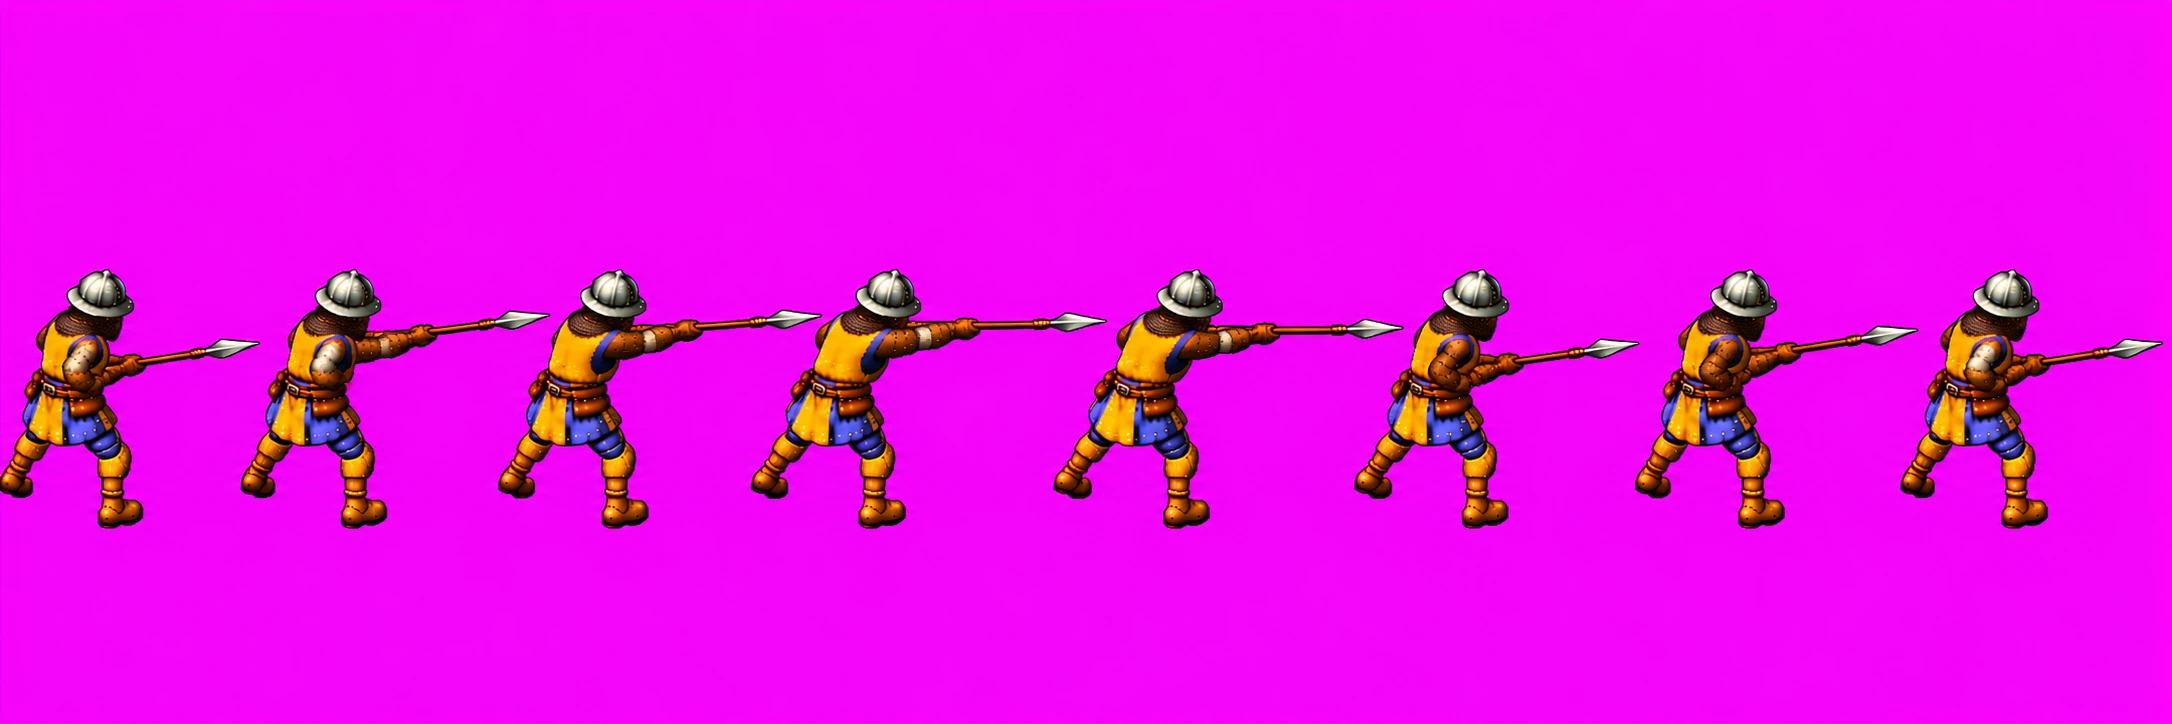
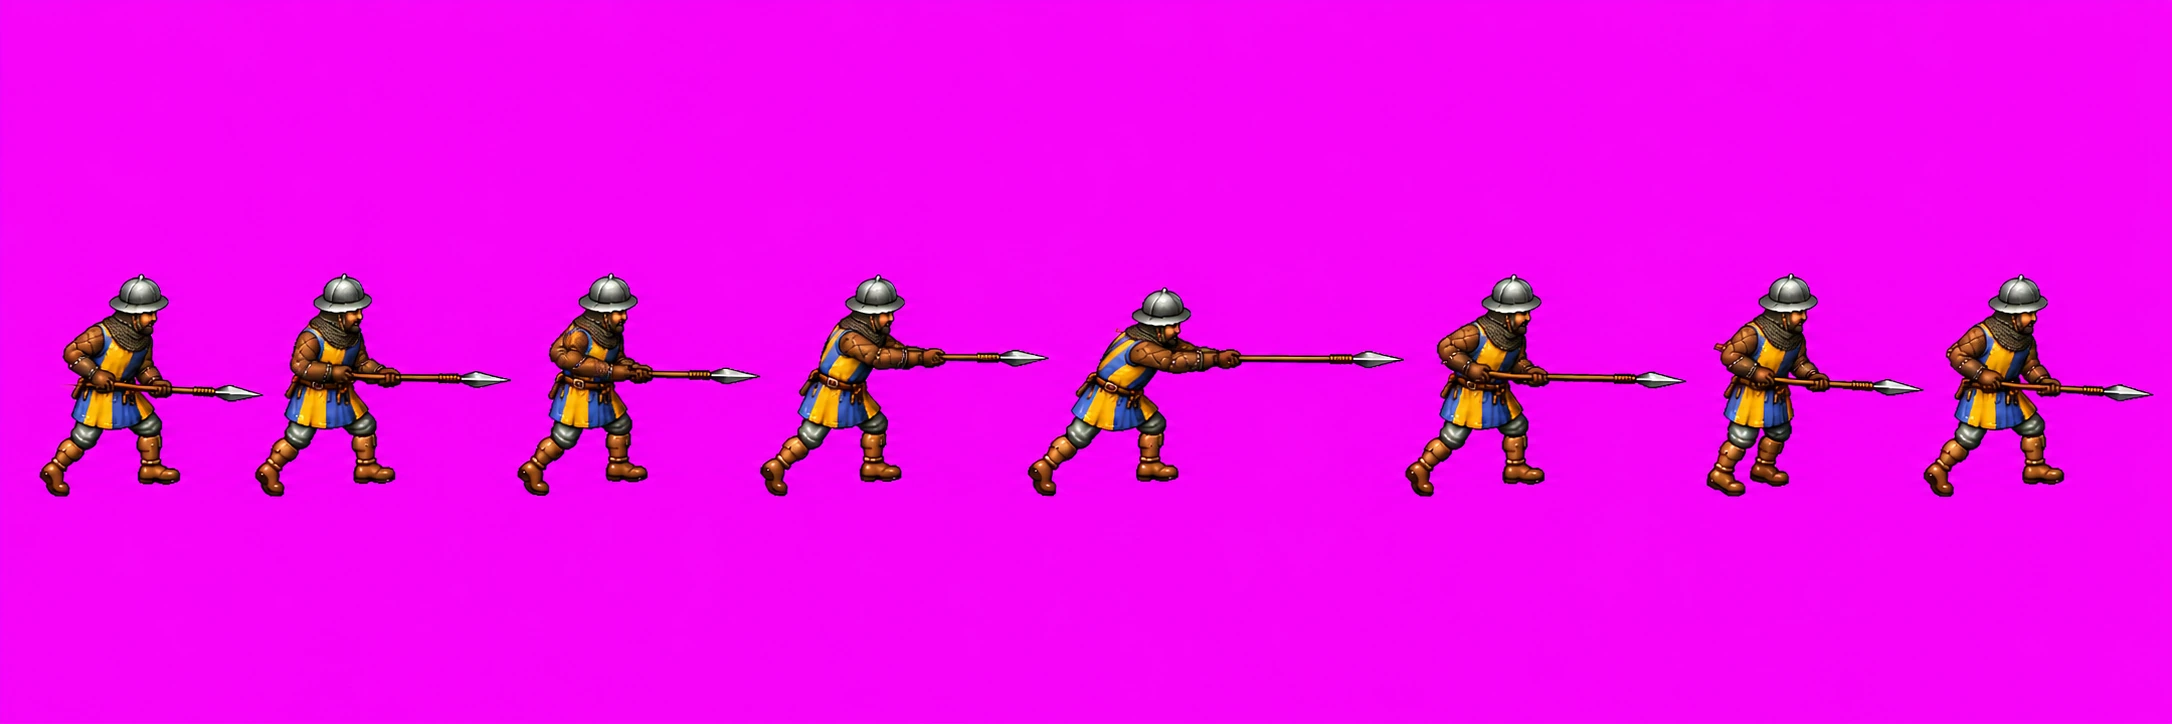
Aanvallen O van de speerman op buikhoogte, en in de stijl van het staande vel
De speer stak op schouderhoogte (de punt 16 pixels boven de romp van de buurman). Opnieuw gevraagd op buikhoogte: de punt
komt nu op 2 pixels van de goede hoogte en 9 pixels in het lijf. Staan en lopen blijven pixel voor pixel hetzelfde.

Changed region(s): [[0.0, 0.3646, 1.0, 0.7293]]

diff --git a/beelden/beschrijving.js b/beelden/beschrijving.js
@@ -544,7 +544,7 @@
     "speerman": {
      "naam": "speerman",
      "cel": [
-      135,
+      144,
       164
      ],
      "anker": [
@@ -599,7 +599,7 @@
        "fps": 10,
        "herhaal": false,
        "cel": [
-        121,
+        135,
         154
        ],
        "anker": [

diff --git a/ontwerp/beelden-van-de-generator.md b/ontwerp/beelden-van-de-generator.md
@@ -389,7 +389,9 @@ generator van 1,7 MB; op spelmaat is het verschil ruis) en lopen in het spel. Wa
   speer is anderhalf keer zo lang als hij). Marcel koos "Steken van verder weg": een speerman steekt opzij van de
   buurtegel en schuin en recht voor of achter van twee tegels (`steekReik` in `js/gevecht.js`, `code.md`). Op die
   afstanden komen de punten bij O-W, ZO-NW en Z-N binnen 16 pixels van de romp; ZW steekt 28 te kort en NO 33 te hoog,
-  en O 16 te hoog: die drie opnieuw, met waar de punt moet komen.
+  en O 16 te hoog: die drie opnieuw, met waar de punt moet komen. Aanvallen O kwam goed met "redo 16: [...] the spear
+  is held at the height of his own belly, just above his belt, not at shoulder height, in every frame; at full extension
+  the spearhead is almost as far to the right of his body as he is tall": de punt op (73, -42) tegen (64, -40).
 - **Alle 25 vellen zijn er** (22 okt). Wat nog beter kan: eventueel 3 en 4 (lopen ZW en W:
   de punt naar achteren). De vallen vanaf 18 zijn glimmender en oranjer getekend (de wapenrok bijna zonder blauw);
   `kleurGelijk` trekt de kleur bij, de vorm niet. Bij N (vel 14), van achteren, speelt hetzelfde: dan de punt
